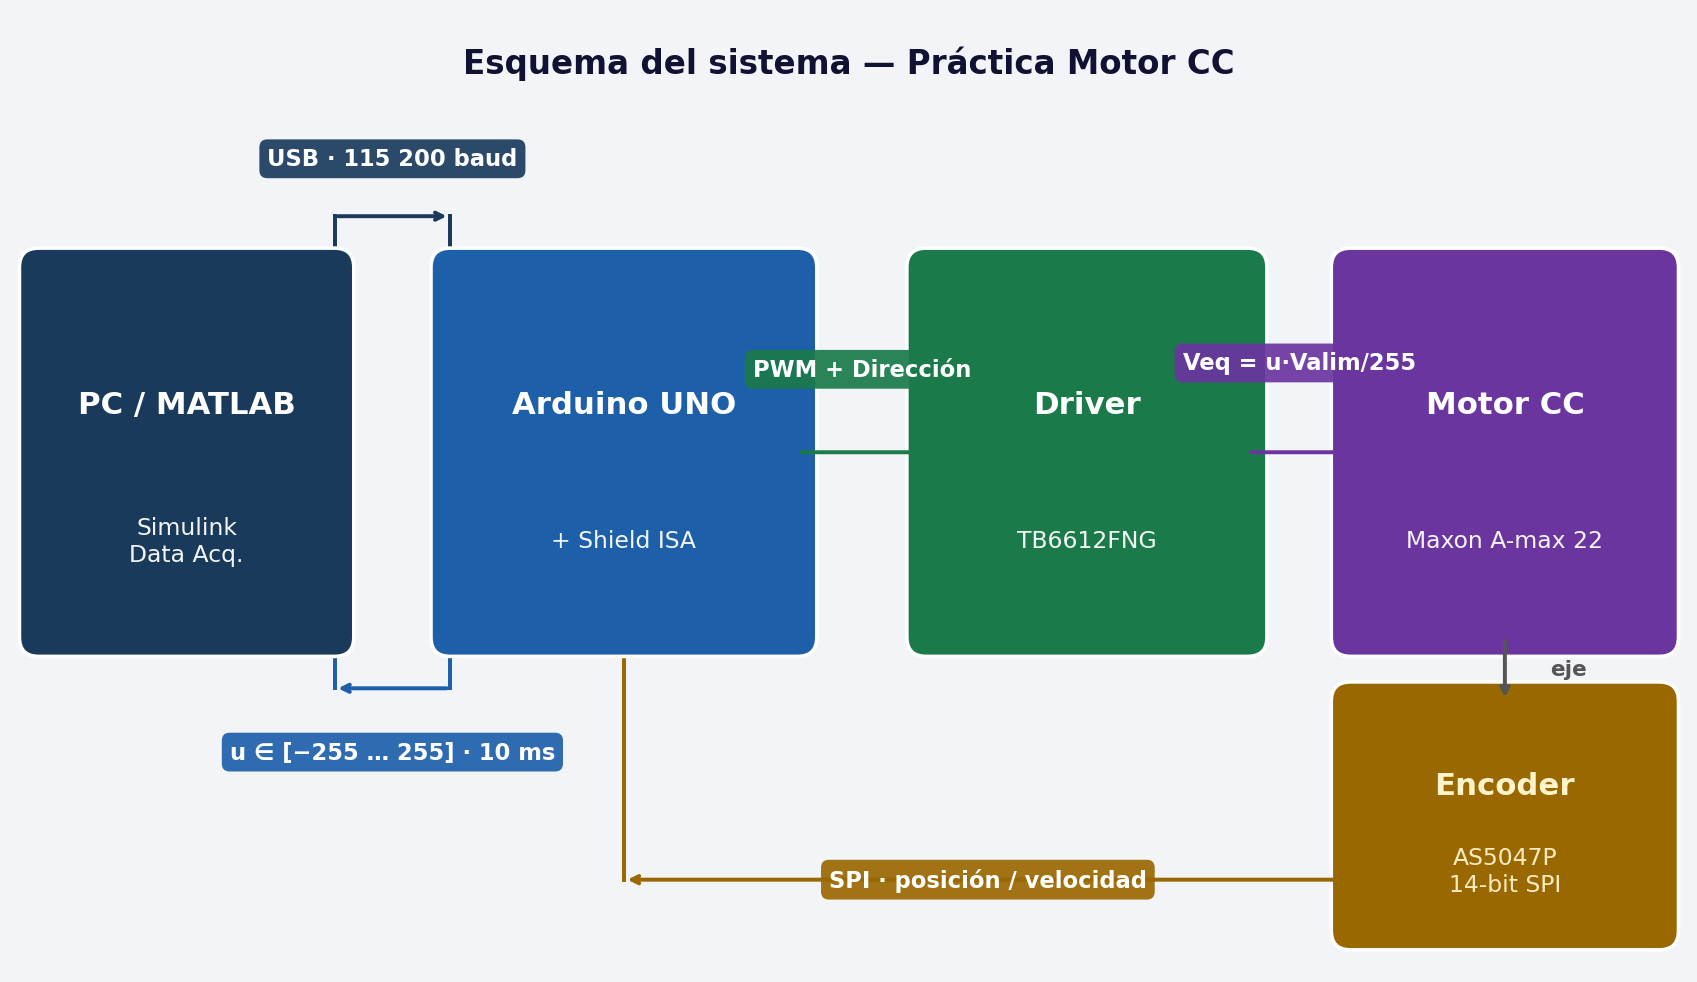
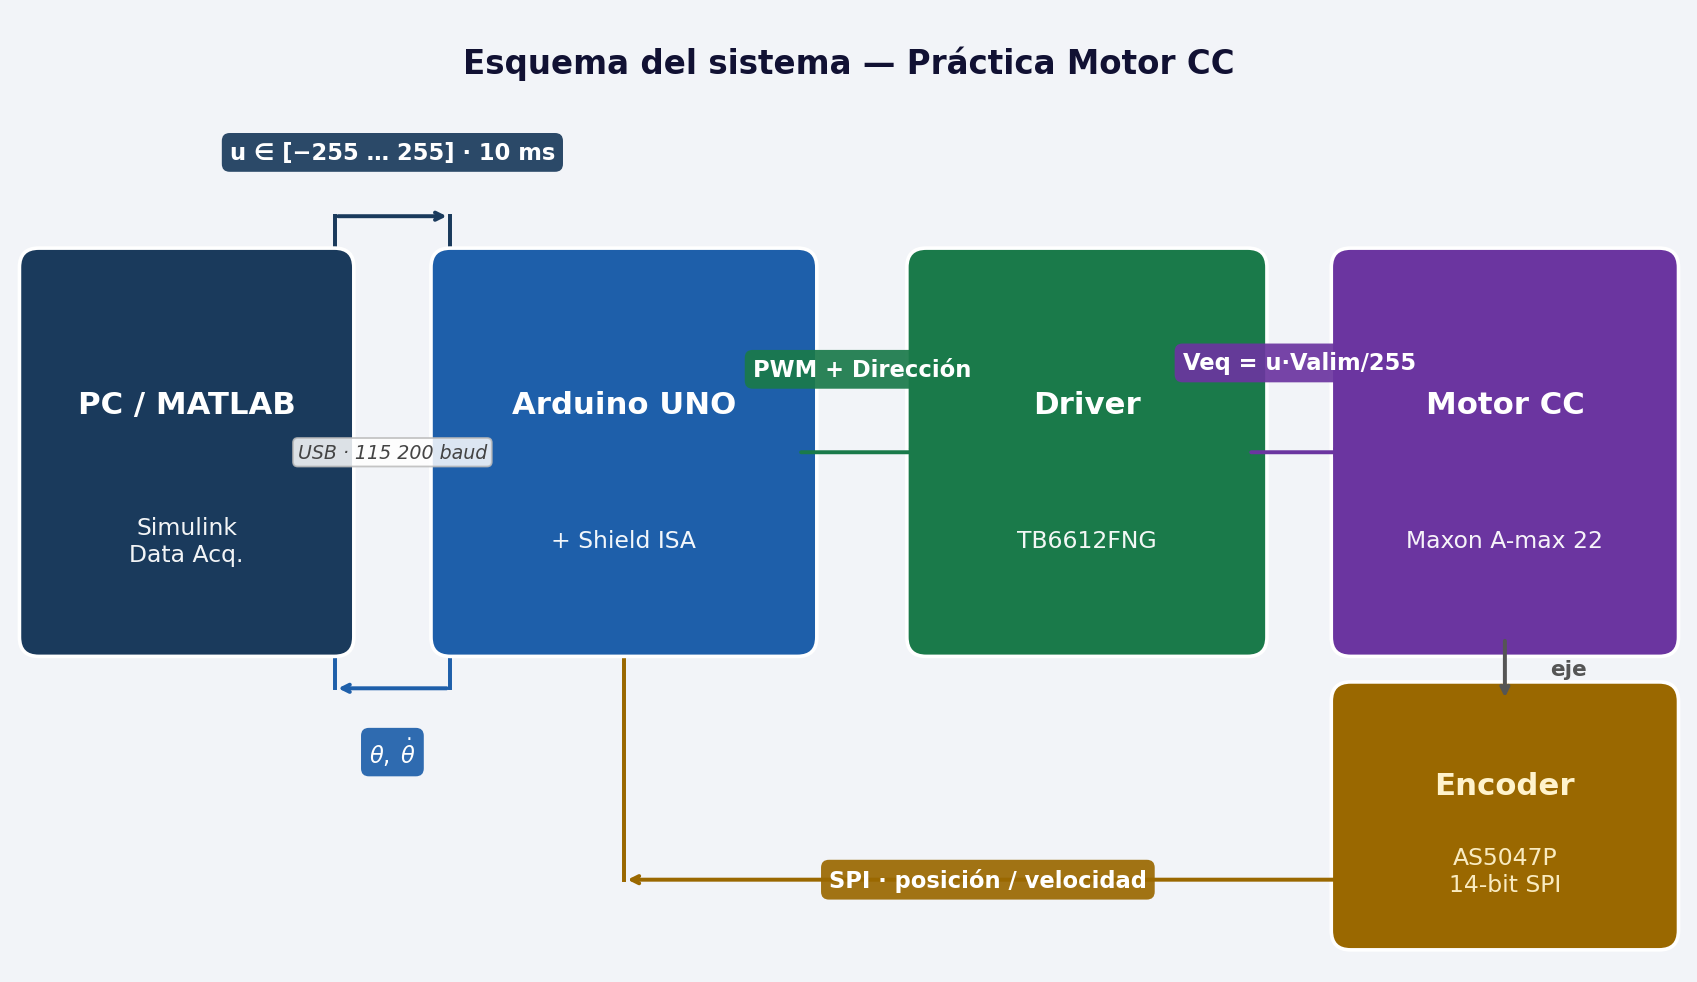
docs: fix diagram return arrow (θ, θ̇); add BOM to assembly section
- System diagram: return channel now correctly shows θ and θ̇
  (position and angular velocity) flowing Arduino → PC/MATLAB
- README: add bill-of-materials table (ES + EN) under Montaje/Assembly
  listing motor, encoder, shield, Arduino, rubber feet, M3/M2 screws,
  JST cable and optional battery

Claude-Session: https://claude.ai/code/session_01KSpm3Md1NMcYM7fBNKqnrc

Changed region(s): [[0.1249, 0.7332, 0.3435, 0.7943], [0.1249, 0.1222, 0.3435, 0.1833], [0.1562, 0.4277, 0.3123, 0.4888]]

diff --git a/README.md b/README.md
@@ -51,6 +51,24 @@ El equipo destaca en cuatro aspectos clave:
 
 ### Montaje
 
+### Lista de materiales para el montaje
+
+| Cant. | Referencia | Descripción |
+|:---:|---|---|
+| 1 | Maxon A-max 22 (Art. 110120) + GP 22 B (Art. 110356) | Motor CC con reductora (imán de encoder incluido en el kit) |
+| 1 | ams AS5047P | Encoder magnético 14 bits |
+| 1 | Arduino UNO | Microcontrolador |
+| 1 | Shield ISA (PCB a medida) | Placa con driver TB6612FNG e interfaz de encoder |
+| 1 | Cable USB tipo B | Comunicación Arduino–PC |
+| — | Piezas 3D en PLA | Bancada, soporte del motor y tapa del encoder (ver `hardware/3d-printing/`) |
+| 4 | Pata de goma atornillada | Antivibraciones en la base; tamaño según orificio de la base |
+| — | Tornillos M3 | Fijación de la bancada a la base y del motor al soporte |
+| — | Tornillos M2 | Fijación del encoder y tapa |
+| 1 | Cable JST (encoder ↔ shield) | Incluido con la shield o fabricado a medida |
+| *(opcional)* | Batería 9 V con conector de barril | Alimentación externa (máx. 9 V, recomendado 8,4 V) |
+
+> Los tornillos M3 e M2, las patas de goma y los cables JST son los únicos consumibles que hay que tener a mano antes de empezar el montaje.
+
 El montaje del equipo es sencillo y no requiere herramientas especiales:
 
 1. **Imprime las piezas 3D** — encontrarás los archivos STL en [`hardware/3d-printing/`](hardware/3d-printing/). Se recomienda PLA a un 20–30 % de relleno.
@@ -160,6 +178,24 @@ The rig stands out in four key areas:
 6. Follow the lab sessions → [`labs/`](labs/)
 
 ### Assembly
+
+### Bill of Materials
+
+| Qty | Reference | Description |
+|:---:|---|---|
+| 1 | Maxon A-max 22 (Art. 110120) + GP 22 B (Art. 110356) | DC motor with gearbox (encoder magnet included in kit) |
+| 1 | ams AS5047P | 14-bit magnetic encoder |
+| 1 | Arduino UNO | Microcontroller |
+| 1 | ISA Shield (custom PCB) | Board with TB6612FNG driver and encoder interface |
+| 1 | USB Type-B cable | Arduino–PC communication |
+| — | PLA 3D-printed parts | Bench, motor bracket and encoder cap (see `hardware/3d-printing/`) |
+| 4 | Screwed rubber feet | Vibration damping for the base |
+| — | M3 screws | Mounting bench to base and motor to bracket |
+| — | M2 screws | Encoder and cap fastening |
+| 1 | JST cable (encoder ↔ shield) | Supplied with the shield or custom-made |
+| *(optional)* | 9 V battery with barrel jack | External power (max 9 V, recommended 8.4 V) |
+
+> M3/M2 screws, rubber feet and JST cables are the only consumables you need to have on hand before assembly.
 
 Assembly is straightforward and requires no special tools:
 
